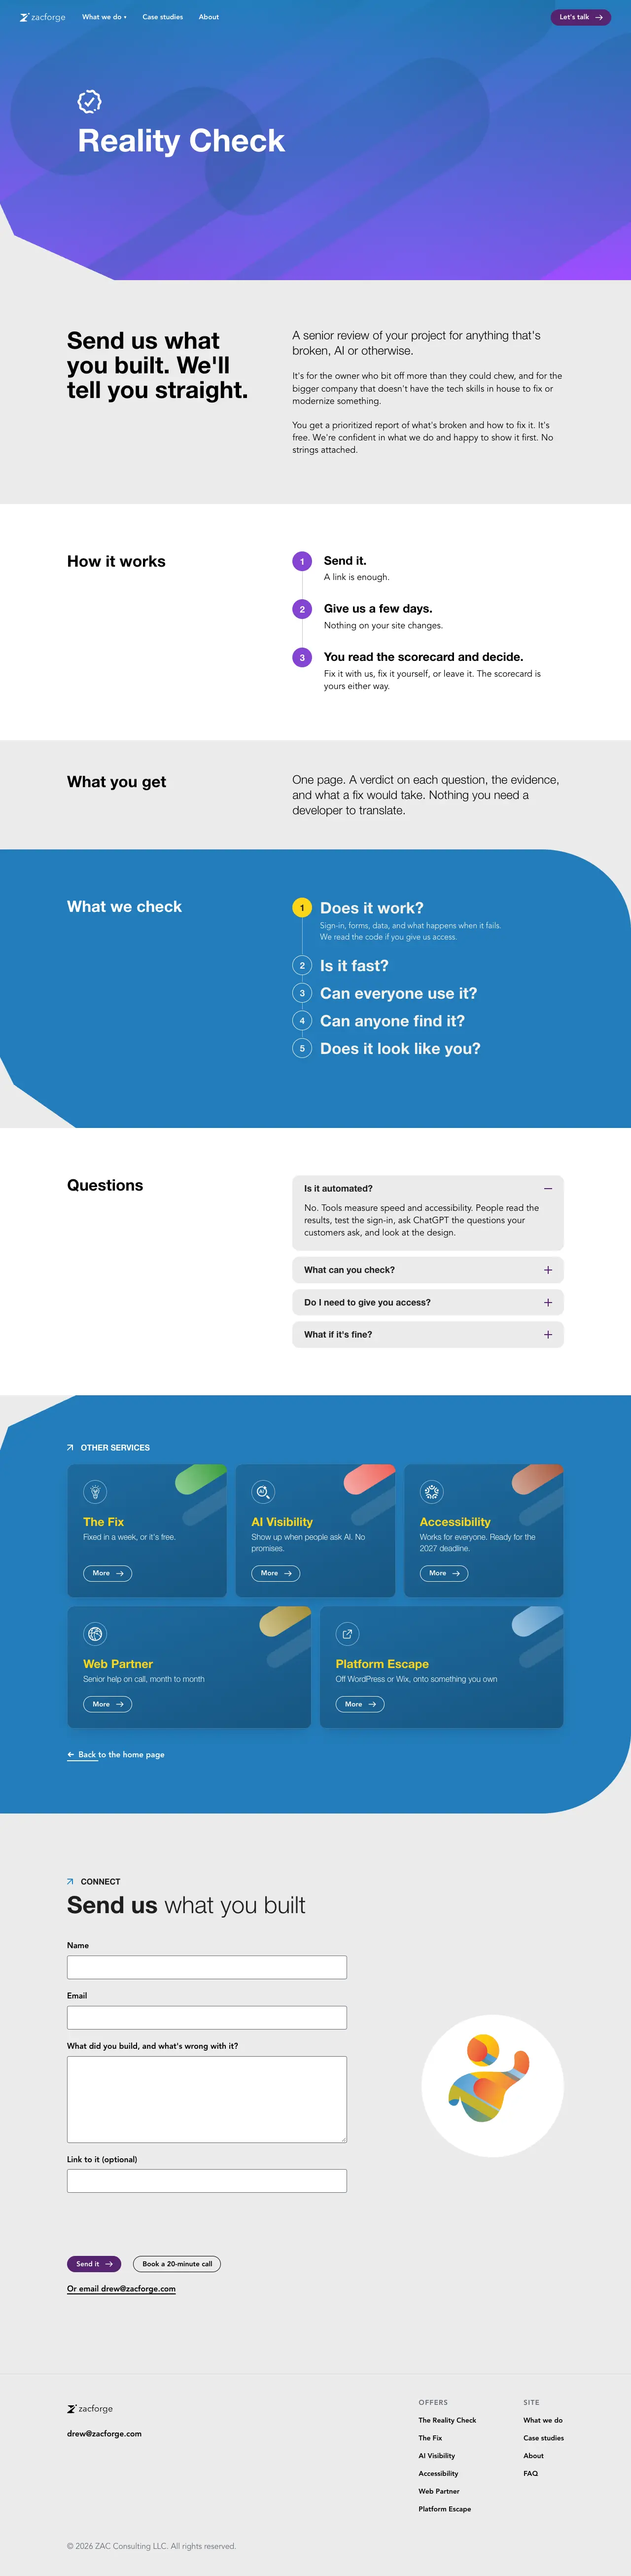
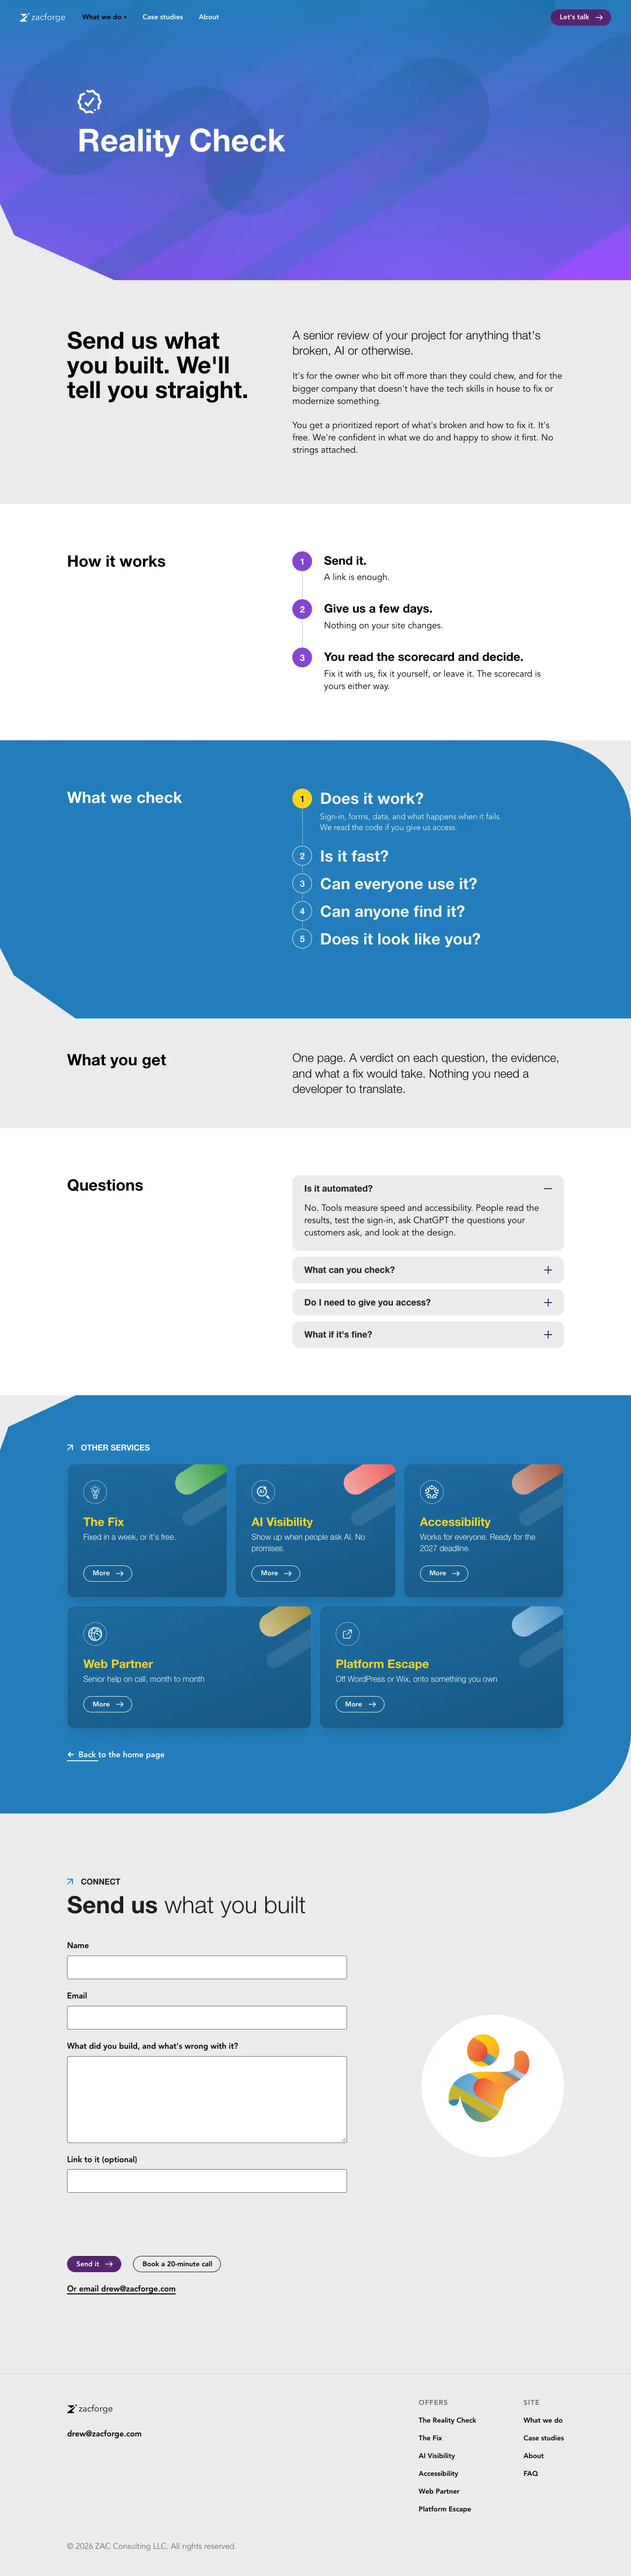
Follow-up to the subpage cut
Restore the third sentence of the AI Visibility SEO answer. Move What you
get below the stepper on /reality-check. Web Partner's lead tile on home
carries its accent capsule. Delete the unrendered Accessibility and Web
Partner card paragraphs. Hold the home hero Z's box at tablet widths so the
copy does not shift when it loads. 768 screenshots on the review page.

Changed region(s): [[0.0, 0.2809, 1.0, 0.4369]]

diff --git a/design/review/2026-11-22-subpages/index.html b/design/review/2026-11-22-subpages/index.html
@@ -20,7 +20,7 @@
   .pair { display: grid; grid-template-columns: 1fr 1fr; gap: 16px; align-items: start; }
   .family { grid-template-columns: repeat(6, 1fr); gap: 12px; align-items: start; margin-bottom: 32px; }
   h3 { margin: 24px 0 12px; font-size: 18px; scroll-margin-top: 64px; }
-  body:not([data-show="1280"]) h3[data-w="1280"], body:not([data-show="390"]) h3[data-w="390"], body:not([data-show="768"]) p[data-w="768"] { display: none !important; }
+  body:not([data-show="1280"]) h3[data-w="1280"], body:not([data-show="390"]) h3[data-w="390"], body:not([data-show="768"]) h3[data-w="768"] { display: none !important; }
   figure { margin: 0; }
   figcaption { font-weight: 700; font-size: 14px; text-transform: uppercase; letter-spacing: .06em; margin-bottom: 8px; color: var(--muted); }
   img { display: block; max-width: 100%; height: auto; margin: 0 auto; background: var(--surface); border-radius: 8px; box-shadow: 0 1px 2px rgb(0 0 0 / .06), 0 12px 28px -14px rgb(0 0 0 / .22); }
@@ -57,8 +57,7 @@
 <main>
 <section id="text-cut">
   <h2>Text cut and offer family (third pass, 2026-11-22)</h2>
-  <p>Removal only, no rewording. The six offer pages now share one order: hero in the page accent with its tile icon, lead and callouts, how it works, lists, sections of the page's own, one proof block, questions, other services, closing. First the six pages side by side, after the pass, then each page before and after. Captured at 1280 and 390.</p>
-  <p data-w="768" style="display:revert">This pass was captured at 1280 and 390 only. Pick one of those widths.</p>
+  <p>Removal only, no rewording. The six offer pages now share one order: hero in the page accent with its tile icon, lead and callouts, how it works, lists, sections of the page's own, one proof block, questions, other services, closing. First the six pages side by side, after the pass, then each page before and after. The after shots include the follow-up of the same day (Reality Check order, the restored AI Visibility sentence). /faq was captured at 1280 and 390.</p>
   <h3 data-w="1280" style="display:revert">The family at 1280px, after</h3>
   <div class="family" data-w="1280">
     <figure><figcaption>/reality-check</figcaption><img loading="lazy" src="text-cut/reality-check-1280-after.webp" alt="/reality-check after the text cut, at 1280 pixels wide"></figure>
@@ -67,6 +66,15 @@
     <figure><figcaption>/ai-visibility</figcaption><img loading="lazy" src="text-cut/ai-visibility-1280-after.webp" alt="/ai-visibility after the text cut, at 1280 pixels wide"></figure>
     <figure><figcaption>/platform-escape</figcaption><img loading="lazy" src="text-cut/platform-escape-1280-after.webp" alt="/platform-escape after the text cut, at 1280 pixels wide"></figure>
     <figure><figcaption>/accessibility</figcaption><img loading="lazy" src="text-cut/accessibility-1280-after.webp" alt="/accessibility after the text cut, at 1280 pixels wide"></figure>
+  </div>
+  <h3 data-w="768" style="display:revert">The family at 768px, after</h3>
+  <div class="family" data-w="768">
+    <figure><figcaption>/reality-check</figcaption><img loading="lazy" src="text-cut/reality-check-768-after.webp" alt="/reality-check after the text cut, at 768 pixels wide"></figure>
+    <figure><figcaption>/fix-week</figcaption><img loading="lazy" src="text-cut/fix-week-768-after.webp" alt="/fix-week after the text cut, at 768 pixels wide"></figure>
+    <figure><figcaption>/web-partner</figcaption><img loading="lazy" src="text-cut/web-partner-768-after.webp" alt="/web-partner after the text cut, at 768 pixels wide"></figure>
+    <figure><figcaption>/ai-visibility</figcaption><img loading="lazy" src="text-cut/ai-visibility-768-after.webp" alt="/ai-visibility after the text cut, at 768 pixels wide"></figure>
+    <figure><figcaption>/platform-escape</figcaption><img loading="lazy" src="text-cut/platform-escape-768-after.webp" alt="/platform-escape after the text cut, at 768 pixels wide"></figure>
+    <figure><figcaption>/accessibility</figcaption><img loading="lazy" src="text-cut/accessibility-768-after.webp" alt="/accessibility after the text cut, at 768 pixels wide"></figure>
   </div>
   <h3 data-w="390" style="display:revert">The family at 390px, after</h3>
   <div class="family" data-w="390">
@@ -82,6 +90,10 @@
     <figure><figcaption>Before, 1280px</figcaption><img loading="lazy" src="text-cut/reality-check-1280-before.webp" alt="/reality-check before the text cut, at 1280 pixels wide"></figure>
     <figure><figcaption>After, 1280px</figcaption><img loading="lazy" src="text-cut/reality-check-1280-after.webp" alt="/reality-check after the text cut, at 1280 pixels wide"></figure>
   </div>
+  <div class="pair" data-w="768">
+    <figure><figcaption>Before, 768px</figcaption><img loading="lazy" src="text-cut/reality-check-768-before.webp" alt="/reality-check before the text cut, at 768 pixels wide"></figure>
+    <figure><figcaption>After, 768px</figcaption><img loading="lazy" src="text-cut/reality-check-768-after.webp" alt="/reality-check after the text cut, at 768 pixels wide"></figure>
+  </div>
   <div class="pair" data-w="390">
     <figure><figcaption>Before, 390px</figcaption><img loading="lazy" src="text-cut/reality-check-390-before.webp" alt="/reality-check before the text cut, at 390 pixels wide"></figure>
     <figure><figcaption>After, 390px</figcaption><img loading="lazy" src="text-cut/reality-check-390-after.webp" alt="/reality-check after the text cut, at 390 pixels wide"></figure>
@@ -90,6 +102,10 @@
   <div class="pair" data-w="1280">
     <figure><figcaption>Before, 1280px</figcaption><img loading="lazy" src="text-cut/fix-week-1280-before.webp" alt="/fix-week before the text cut, at 1280 pixels wide"></figure>
     <figure><figcaption>After, 1280px</figcaption><img loading="lazy" src="text-cut/fix-week-1280-after.webp" alt="/fix-week after the text cut, at 1280 pixels wide"></figure>
+  </div>
+  <div class="pair" data-w="768">
+    <figure><figcaption>Before, 768px</figcaption><img loading="lazy" src="text-cut/fix-week-768-before.webp" alt="/fix-week before the text cut, at 768 pixels wide"></figure>
+    <figure><figcaption>After, 768px</figcaption><img loading="lazy" src="text-cut/fix-week-768-after.webp" alt="/fix-week after the text cut, at 768 pixels wide"></figure>
   </div>
   <div class="pair" data-w="390">
     <figure><figcaption>Before, 390px</figcaption><img loading="lazy" src="text-cut/fix-week-390-before.webp" alt="/fix-week before the text cut, at 390 pixels wide"></figure>
@@ -100,6 +116,10 @@
     <figure><figcaption>Before, 1280px</figcaption><img loading="lazy" src="text-cut/web-partner-1280-before.webp" alt="/web-partner before the text cut, at 1280 pixels wide"></figure>
     <figure><figcaption>After, 1280px</figcaption><img loading="lazy" src="text-cut/web-partner-1280-after.webp" alt="/web-partner after the text cut, at 1280 pixels wide"></figure>
   </div>
+  <div class="pair" data-w="768">
+    <figure><figcaption>Before, 768px</figcaption><img loading="lazy" src="text-cut/web-partner-768-before.webp" alt="/web-partner before the text cut, at 768 pixels wide"></figure>
+    <figure><figcaption>After, 768px</figcaption><img loading="lazy" src="text-cut/web-partner-768-after.webp" alt="/web-partner after the text cut, at 768 pixels wide"></figure>
+  </div>
   <div class="pair" data-w="390">
     <figure><figcaption>Before, 390px</figcaption><img loading="lazy" src="text-cut/web-partner-390-before.webp" alt="/web-partner before the text cut, at 390 pixels wide"></figure>
     <figure><figcaption>After, 390px</figcaption><img loading="lazy" src="text-cut/web-partner-390-after.webp" alt="/web-partner after the text cut, at 390 pixels wide"></figure>
@@ -108,6 +128,10 @@
   <div class="pair" data-w="1280">
     <figure><figcaption>Before, 1280px</figcaption><img loading="lazy" src="text-cut/ai-visibility-1280-before.webp" alt="/ai-visibility before the text cut, at 1280 pixels wide"></figure>
     <figure><figcaption>After, 1280px</figcaption><img loading="lazy" src="text-cut/ai-visibility-1280-after.webp" alt="/ai-visibility after the text cut, at 1280 pixels wide"></figure>
+  </div>
+  <div class="pair" data-w="768">
+    <figure><figcaption>Before, 768px</figcaption><img loading="lazy" src="text-cut/ai-visibility-768-before.webp" alt="/ai-visibility before the text cut, at 768 pixels wide"></figure>
+    <figure><figcaption>After, 768px</figcaption><img loading="lazy" src="text-cut/ai-visibility-768-after.webp" alt="/ai-visibility after the text cut, at 768 pixels wide"></figure>
   </div>
   <div class="pair" data-w="390">
     <figure><figcaption>Before, 390px</figcaption><img loading="lazy" src="text-cut/ai-visibility-390-before.webp" alt="/ai-visibility before the text cut, at 390 pixels wide"></figure>
@@ -118,6 +142,10 @@
     <figure><figcaption>Before, 1280px</figcaption><img loading="lazy" src="text-cut/platform-escape-1280-before.webp" alt="/platform-escape before the text cut, at 1280 pixels wide"></figure>
     <figure><figcaption>After, 1280px</figcaption><img loading="lazy" src="text-cut/platform-escape-1280-after.webp" alt="/platform-escape after the text cut, at 1280 pixels wide"></figure>
   </div>
+  <div class="pair" data-w="768">
+    <figure><figcaption>Before, 768px</figcaption><img loading="lazy" src="text-cut/platform-escape-768-before.webp" alt="/platform-escape before the text cut, at 768 pixels wide"></figure>
+    <figure><figcaption>After, 768px</figcaption><img loading="lazy" src="text-cut/platform-escape-768-after.webp" alt="/platform-escape after the text cut, at 768 pixels wide"></figure>
+  </div>
   <div class="pair" data-w="390">
     <figure><figcaption>Before, 390px</figcaption><img loading="lazy" src="text-cut/platform-escape-390-before.webp" alt="/platform-escape before the text cut, at 390 pixels wide"></figure>
     <figure><figcaption>After, 390px</figcaption><img loading="lazy" src="text-cut/platform-escape-390-after.webp" alt="/platform-escape after the text cut, at 390 pixels wide"></figure>
@@ -126,6 +154,10 @@
   <div class="pair" data-w="1280">
     <figure><figcaption>Before, 1280px</figcaption><img loading="lazy" src="text-cut/accessibility-1280-before.webp" alt="/accessibility before the text cut, at 1280 pixels wide"></figure>
     <figure><figcaption>After, 1280px</figcaption><img loading="lazy" src="text-cut/accessibility-1280-after.webp" alt="/accessibility after the text cut, at 1280 pixels wide"></figure>
+  </div>
+  <div class="pair" data-w="768">
+    <figure><figcaption>Before, 768px</figcaption><img loading="lazy" src="text-cut/accessibility-768-before.webp" alt="/accessibility before the text cut, at 768 pixels wide"></figure>
+    <figure><figcaption>After, 768px</figcaption><img loading="lazy" src="text-cut/accessibility-768-after.webp" alt="/accessibility after the text cut, at 768 pixels wide"></figure>
   </div>
   <div class="pair" data-w="390">
     <figure><figcaption>Before, 390px</figcaption><img loading="lazy" src="text-cut/accessibility-390-before.webp" alt="/accessibility before the text cut, at 390 pixels wide"></figure>

diff --git a/src/pages/offers/realityCheck.ts b/src/pages/offers/realityCheck.ts
@@ -51,17 +51,11 @@ export const realityCheck: Offer = {
       ],
     },
     {
-      heading: "What you get",
-      kind: "paragraphs",
-      items: [
-        "One page. A verdict on each question, the evidence, and what a fix would take. Nothing you need a developer to translate.",
-      ],
-    },
-    {
       heading: "What we check",
       kind: "numbered",
       // The home Check section's stepper, with the same five items. It is
-      // this page's proof block, so it comes last.
+      // this page's proof block. "What you get" follows it (Drew,
+      // 2026-11-22), so the questions are read before the verdict on each.
       view: "stepper",
       items: [
         {
@@ -81,6 +75,13 @@ export const realityCheck: Offer = {
           title: "Does it look like you?",
           body: "Whether it looks like your business or like a template. Our design principal makes the call.",
         },
+      ],
+    },
+    {
+      heading: "What you get",
+      kind: "paragraphs",
+      items: [
+        "One page. A verdict on each question, the evidence, and what a fix would take. Nothing you need a developer to translate.",
       ],
     },
   ],

diff --git a/src/pages/offers/accessibility.ts b/src/pages/offers/accessibility.ts
@@ -5,9 +5,6 @@ export const accessibility: Offer = {
   path: "/accessibility",
   navTitle: "Accessibility",
   line: "Works for everyone. Ready for the 2027 deadline.",
-  // The home card's line (2026-11-18).
-  summary:
-    "Public agencies and federally funded health providers face federal accessibility deadlines in 2027 and 2028. We fix the site's code. We don't cover it with a widget.",
   title: "Accessibility fixes for ADA Title II deadlines | ZAC Forge",
   description:
     "Public agencies and HHS-funded health providers face accessibility deadlines in 2027 and 2028. We test by hand, fix the code to WCAG 2.1 AA, and document it.",

diff --git a/src/pages/offers/aiVisibility.ts b/src/pages/offers/aiVisibility.ts
@@ -93,7 +93,7 @@ export const aiVisibility: Offer = {
     {
       question: "Is this SEO with a new name?",
       answer:
-        "Part of it overlaps, and good search foundations still matter. The difference is that assistants read your site differently.",
+        "Part of it overlaps, and good search foundations still matter. The difference is that assistants read your site differently. Many cannot run JavaScript, some are blocked by default settings, and they rely heavily on reviews, listings, and what other sites say about you.",
     },
     {
       question: "Do we need to write a lot of new content?",

diff --git a/src/pages/offers/types.ts b/src/pages/offers/types.ts
@@ -59,9 +59,10 @@ export type Offer = {
   /**
    * The paragraph the "Other services" tile carried until the text cut of
    * 2026-11-22. No longer shown anywhere, except as the tile line of an
-   * offer with no `line` (the flagged brand system).
+   * offer with no `line` (the flagged brand system). Deleted from Web
+   * Partner and Accessibility at Drew's request the same day.
    */
-  summary: string;
+  summary?: string;
   /** Behind a flag: omitted from routes, menus, sitemap, and schema. */
   flagged?: boolean;
   /** Document head. */

diff --git a/src/components/WhatWeFix.tsx b/src/components/WhatWeFix.tsx
@@ -51,6 +51,8 @@ export function WhatWeFix() {
         <Reveal stagger>
           <ul className="fix-grid fix-grid--bento">
             <li className="fix fix--lead reveal-item" style={{ ...step(0), ...capsuleStyle(LEAD.link.href) }}>
+              {/* Its accent, as on the other tiles (Drew, 2026-11-22). */}
+              <span className="fix-capsule" aria-hidden="true" />
               <div className="fix-lead-copy">
                 <TileBody tile={LEAD} lead />
                 <Callout>{PRINCIPLES.partner}</Callout>

diff --git a/src/pages/offers/webPartner.ts b/src/pages/offers/webPartner.ts
@@ -6,9 +6,6 @@ export const webPartner: Offer = {
   path: "/web-partner",
   navTitle: "Web Partner",
   line: "Senior help on call, month to month",
-  // The home card's line (2026-11-18).
-  summary:
-    "A flexible team of senior IT professionals who work alongside yours. As much or as little as you need. Month to month, no strings.",
   title: "Web Partner: senior website care, month to month | ZAC Forge",
   // Quoted the old home card line, so it takes the new card copy (2026-11-18).
   description:

diff --git a/src/styles/layout.css b/src/styles/layout.css
@@ -358,6 +358,10 @@ body:has(.subpage-hero) .site-header:not([data-scrolled="true"]):not(:has(.site-
     order: -1;
     margin-top: 0;
     justify-self: start;
+    /* A set width, so the Z's box is held before the image loads. Sized by
+       its content alone it was empty until then, and the copy below jumped
+       down when it arrived (2026-11-22). */
+    width: 100%;
     max-width: calc(var(--hero-art) * 0.5);
   }
 }

diff --git a/src/components/OfferTiles.tsx b/src/components/OfferTiles.tsx
@@ -25,7 +25,7 @@ export type Tile = {
 export function offerTile(offer: Offer, label: string, ariaLabel?: string): Tile {
   return {
     title: offer.navTitle,
-    line: offer.tileLine ?? offer.line ?? offer.summary,
+    line: offer.tileLine ?? offer.line ?? offer.summary ?? "",
     icon: offer.heroIcon?.src,
     link: { label, href: offer.path, ariaLabel },
   };

diff --git a/CLAUDE.md b/CLAUDE.md
@@ -202,7 +202,7 @@ Every page is prerendered by `scripts/prerender.mjs` into `dist/<route>.html` wi
 | `Problem.tsx` | "Problem", on the ground: a full-width statement at one and a half times the hero size, revealed line by line, "wrong" in red and "without telling you." light italic, then "Someone has to check." (cut 2026-11-22) |
 | `FixWeek.tsx` | Fix: heading, the intro up to its colon, the guarantee as a full-width type statement, "Things we've fixed" as three before-and-after cards (design pass, 2026-11-22): a coded illustration (`FixIllustrations.tsx`) that plays from the broken state to the fixed one on reveal and replays on hover or from its button, a category chip (`.chip`: Accessibility, Security, SEO), the problem, and the outcome band, rows shared by subgrid so the bands align; whole sentences from `/fix-week` where the full examples are, a callout, link to `/fix-week`, MB11's four-piece Z. All from `FIX_HOME` in `fixWeek.ts` (cut 2026-11-22) |
 | `RealityCheck.tsx` | Check, blue band: heading, two intro lines (`RC_HOME_INTRO` in `realityCheck.ts`), one button "Get a free Reality Check" to `#contact`, the "How it works" link, a callout, and the 5 questions as a stepper on the right: one open at a time, first by default, descriptions read from the `/reality-check` "What we check" block, real buttons with `aria-expanded` and `aria-controls`, arrow keys, Home, and End between them (2026-11-22; no booking pill, no line art) |
-| `WhatWeFix.tsx` | Partner, anchor `#what-we-do`, blue band, eyebrow "Partner", heading "When the Check calls for more", a bento grid of four tiles in a darker tint of the band (2026-11-22): Web Partner large, with the ownership callout as an inset panel and Misha's two-piece Z (the old How we work art) inside dotted orbits, then AI Visibility, Platform Escape, and Accessibility, each with its offer icon from `public/art/subpage/` (Platform Escape's is drawn in code until Misha makes one), a gradient capsule in the brand's shape language, a title, one line (the handoff's, the menu subtext), and its pill, whose link covers the tile. The Rescue card's text moved to `/fix-week`; the Brand system card is gone. Tile lines come from each offer's `line` / `tileLine`. The offers' `summary` still carries the old card paragraphs but nothing renders it since 2026-11-22 (only a flagged offer with no `line` falls back to it) |
+| `WhatWeFix.tsx` | Partner, anchor `#what-we-do`, blue band, eyebrow "Partner", heading "When the Check calls for more", a bento grid of four tiles in a darker tint of the band (2026-11-22): Web Partner large, with the ownership callout as an inset panel and Misha's two-piece Z (the old How we work art) inside dotted orbits, then AI Visibility, Platform Escape, and Accessibility, each with its offer icon from `public/art/subpage/` (Platform Escape's is drawn in code until Misha makes one), a gradient capsule in the brand's shape language, a title, one line (the handoff's, the menu subtext), and its pill, whose link covers the tile. The Rescue card's text moved to `/fix-week`; the Brand system card is gone. Tile lines come from each offer's `line` / `tileLine`. Nothing renders an offer's `summary` since 2026-11-22 (only a flagged offer with no `line` falls back to it), and the old Accessibility and Web Partner card paragraphs were deleted from the data the same day (Drew). The Web Partner lead tile carries its accent capsule like the other tiles |
 | `LogoBand.tsx` `ExperienceStrip` | The credibility strip as a credential row: four equal columns on a dark band (ink to the accent purple) inside Proof, a coded line icon in yellow over each line, the anchor bold (IBM.com, 20,000 users, since 2010, HIPAA), rendered by `TrackRecord`, label screen-reader only |
 | `WhoWeAre.tsx` | On home since 2026-11-22 the compact form (`bios={false}`): the intro's first line "We were already the guys. Now we're the guys with AI." is the headline in place of "Principals", its second line the only supporting line ("Fast, fair and friendly." is on `/about` only), one row of small photos with name and title beside them, no cards, and one "About ZAC" link. `/about` keeps the description that follows. "Team", heading "Principals", the team intro, white band (`.band--white`, Drew, 2026-11-22, over MB11's grey), three 176px white circles with a 1px `--color-image-stroke` keyline, black and white photos on their original backgrounds, faces matched in size and eye height (initials without a photo) then full name, role, bio paragraphs, all from `src/pages/team.ts`. On home and on `/about` |
 | `pages/AboutPage.tsx` | `/about` (Drew, 2026-11-18): `SubpageHero` named "About", h1 "About ZAC" held left with the four "What is ZAC" paragraphs right, the home credential band (`ExperienceStrip`, added 2026-11-22), a "How we work" block of the three principle lines as callouts (`src/pages/principles.ts`, verbatim from the removed home section), `WhoWeAre` with bios, and `Closing` with a button. AboutPage schema with BreadcrumbList Home > About and the three Person entries, OG card `public/og/about.jpg`, in the sitemap and `llms.txt`, linked from the top bar and the footer |
